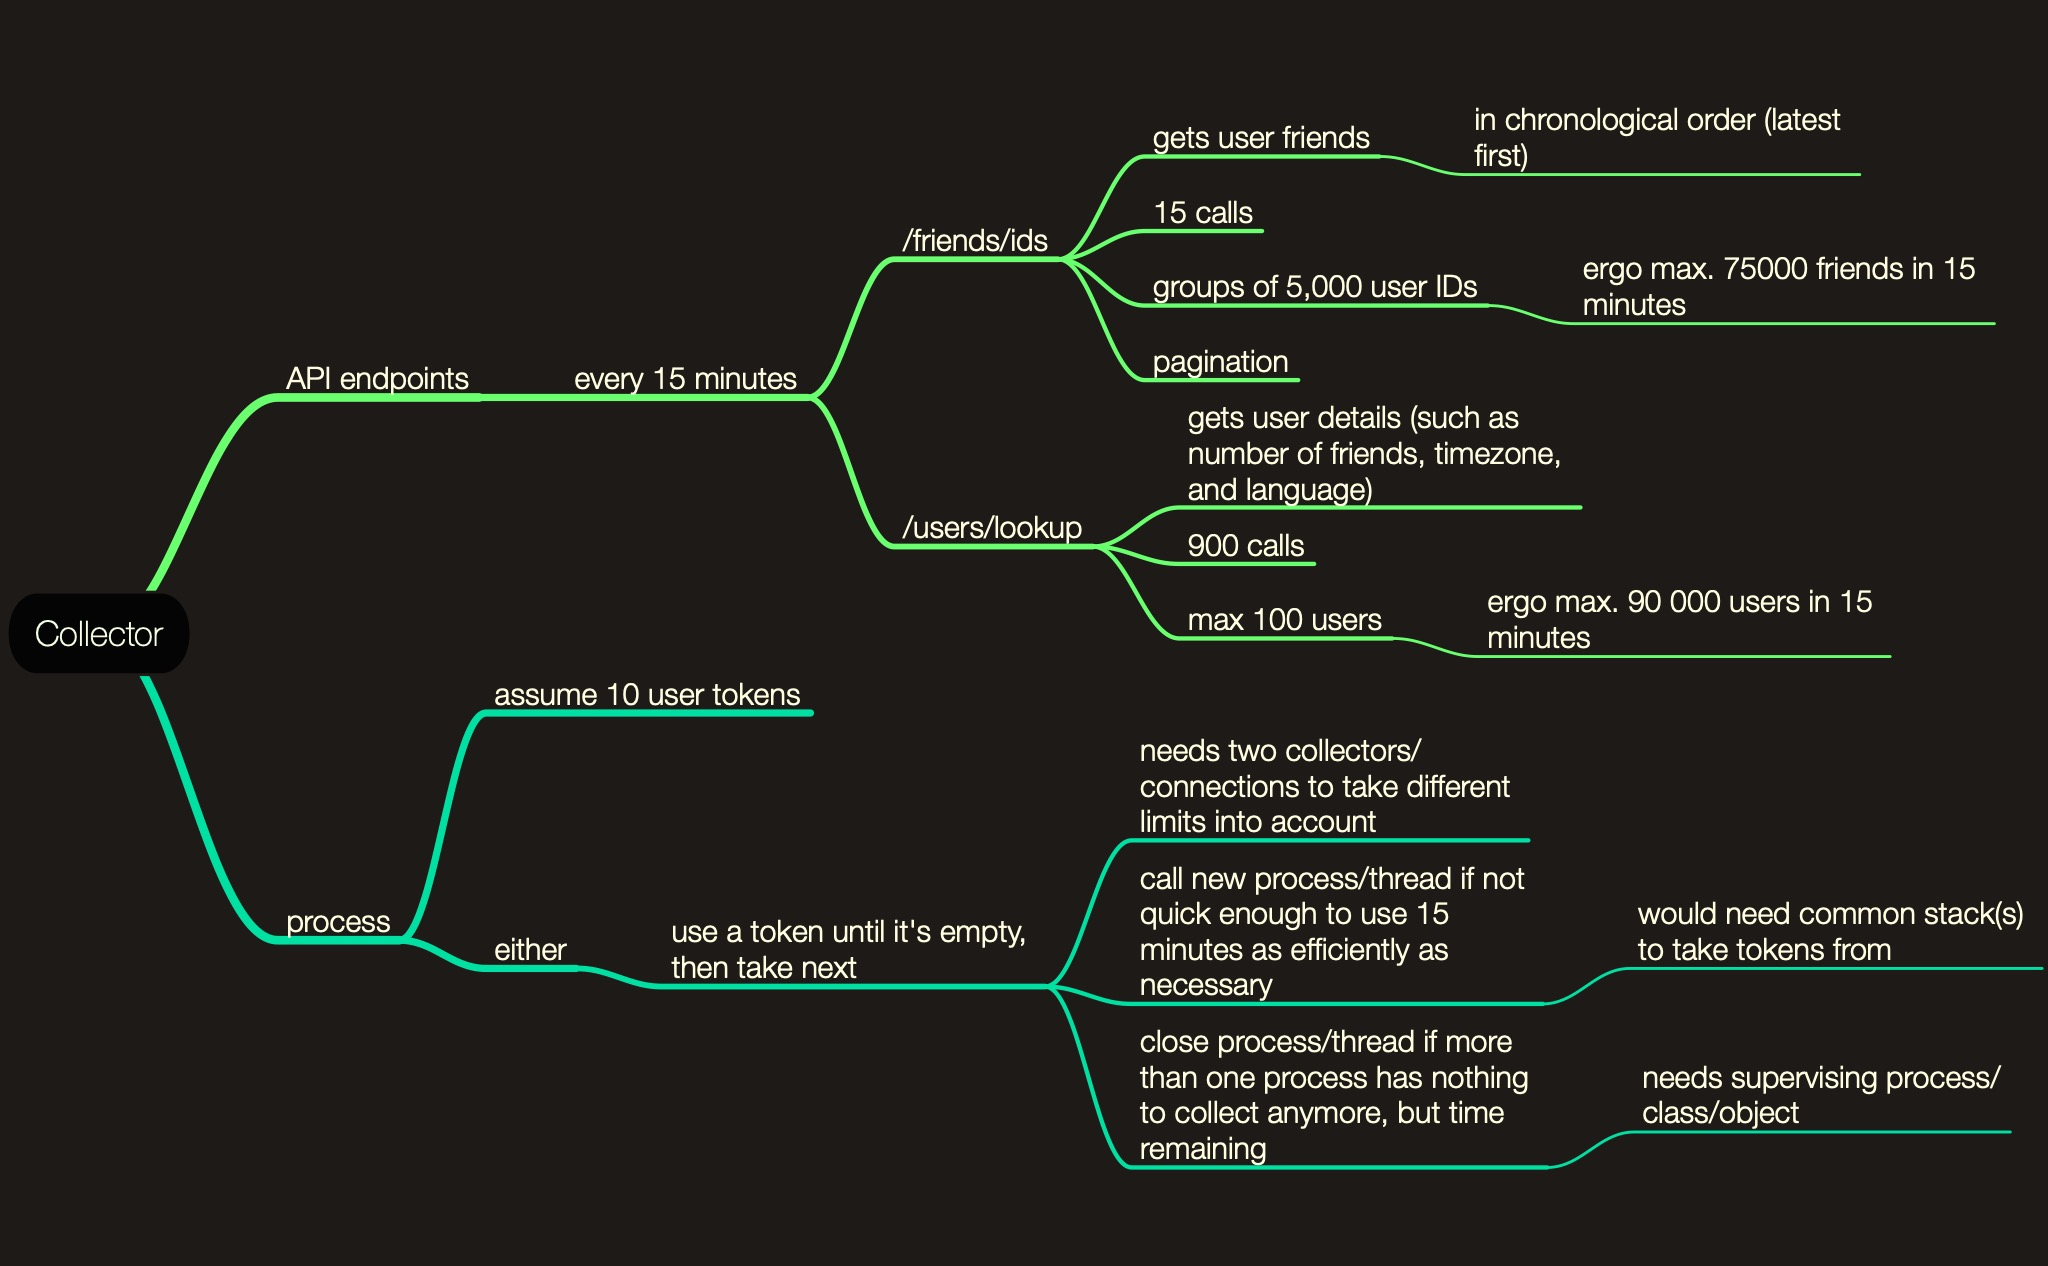
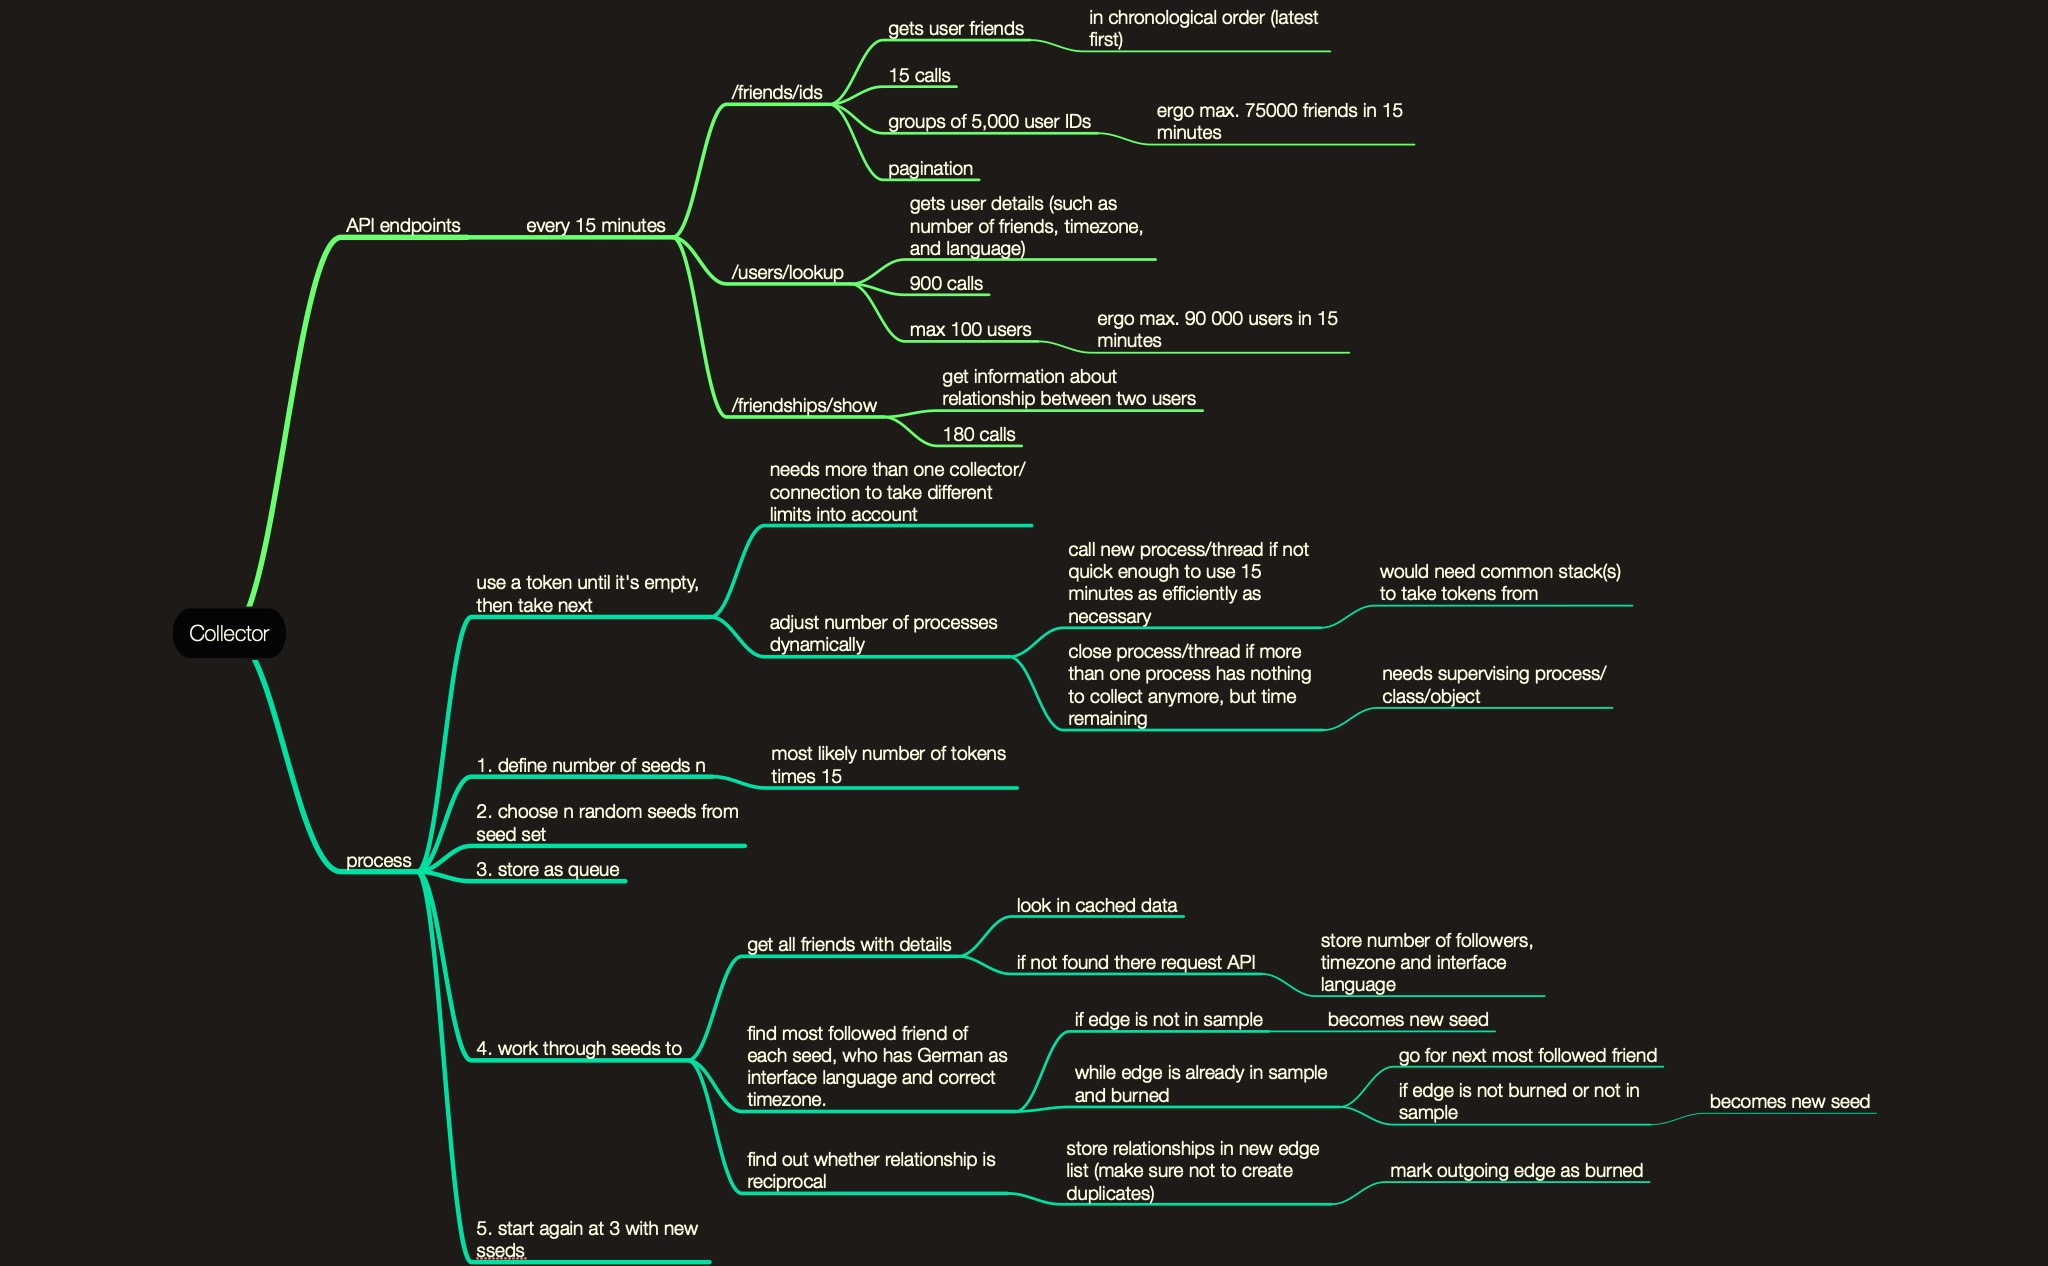
concept collector

diff --git a/Collector_concept.md b/Collector_concept.md
@@ -1,0 +1,93 @@
+# Collector
+
+
+## API endpoints
+
+### every 15 minutes
+
+- /friends/ids
+
+	- gets user friends
+
+		- in chronological order (latest first)
+
+	- 15 calls
+
+	- groups of 5,000 user IDs
+
+		- ergo max. 75000 friends in 15 minutes
+
+	- pagination
+
+- /users/lookup
+
+	- gets user details (such as number of friends, timezone, and language)
+
+	- 900 calls
+
+	- max 100 users
+
+		- ergo max. 90 000 users in 15 minutes
+
+- /friendships/show
+
+	- get information about relationship between two users
+
+	- 180 calls
+
+## process
+
+### use a token until it's empty, then take next
+
+- needs more than one collector/connection to take different limits into account
+
+- adjust number of processes dynamically
+
+	- call new process/thread if not quick enough to use 15 minutes as efficiently as necessary
+
+		- would need common stack(s) to take tokens from
+
+	- close process/thread if more than one process has nothing to collect anymore, but time remaining
+
+		- needs supervising process/class/object
+
+### 1. define number of seeds n
+
+- most likely number of tokens times 15
+
+### 2. choose n random seeds from seed set
+
+### 3. store as queue
+
+### 4. work through seeds to
+
+- get all friends with details
+
+	- look in cached data
+
+	- if not found there request API
+
+		- store number of followers, timezone and interface language
+
+- find most followed friend of each seed, who has German as interface language and correct timezone.
+
+	- if edge is not in sample
+
+		- becomes new seed
+
+	- while edge is already in sample and burned
+
+		- go for next most followed friend
+
+		- if edge is not burned or not in sample
+
+			- becomes new seed
+
+- find out whether relationship is reciprocal
+
+	- store relationships in new edge list (make sure not to create duplicates)
+
+		- mark outgoing edge as burned
+
+### 5. start again at 3 with new sseds
+
